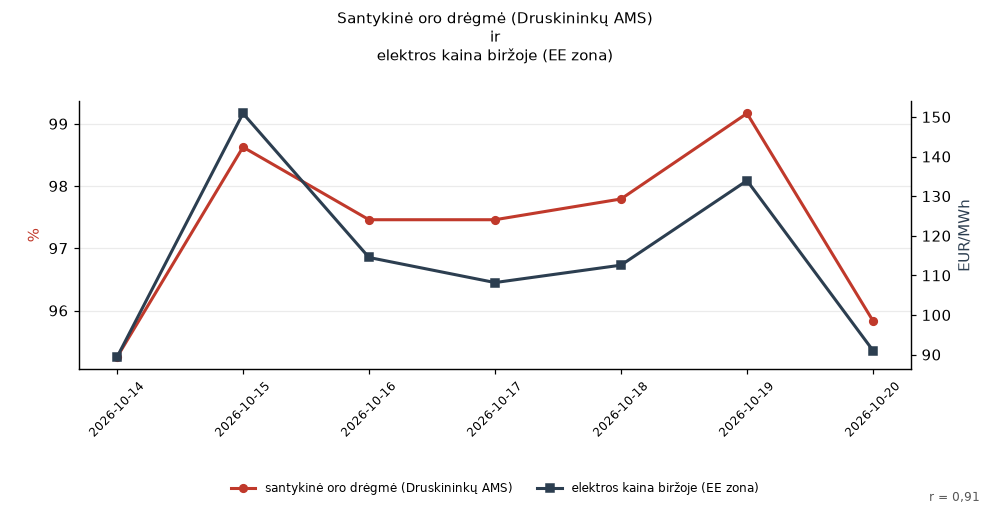
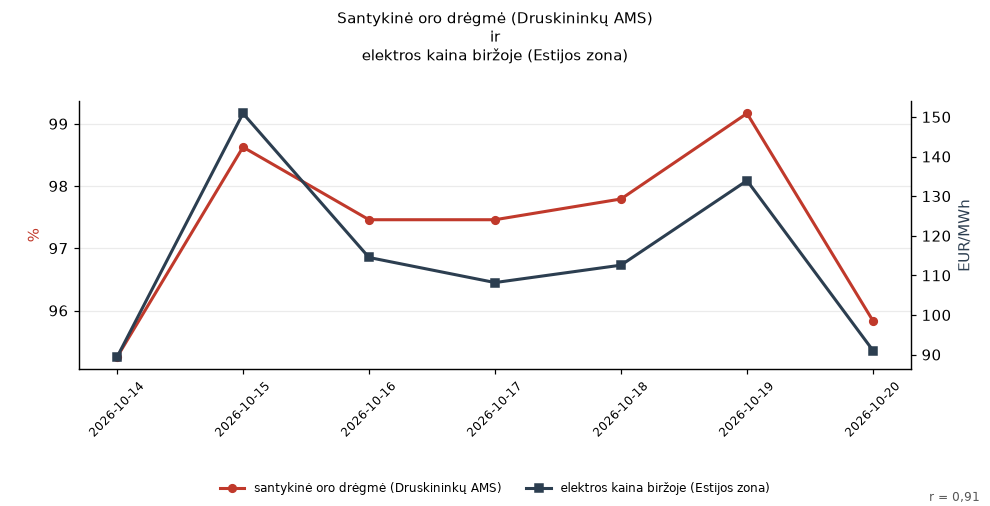
Estijos zona instead of EE zona

Changed region(s): [[0.2121, 0.9486, 0.7879, 0.9783], [0.3636, 0.0889, 0.6364, 0.1186]]

diff --git a/post/2026-10-22-a18e29ce/index.html b/post/2026-10-22-a18e29ce/index.html
@@ -1,10 +1,10 @@
 <!doctype html>
 <html lang="lt"><head><meta charset="utf-8">
 <meta name="viewport" content="width=device-width, initial-scale=1">
-<title>Šią savaitę lyg tyčia sutapo: santykinė oro drėgmė (Druskininkų AMS) ir elektros kaina biržoje (EE zona) · Lyg tyčia</title>
+<title>Šią savaitę lyg tyčia sutapo: santykinė oro drėgmė (Druskininkų AMS) ir elektros kaina biržoje (Estijos zona) · Lyg tyčia</title>
 <meta property="og:type" content="article">
 <meta property="og:site_name" content="Lyg tyčia">
-<meta property="og:title" content="Šią savaitę lyg tyčia sutapo: santykinė oro drėgmė (Druskininkų AMS) ir elektros kaina biržoje (EE zona)">
+<meta property="og:title" content="Šią savaitę lyg tyčia sutapo: santykinė oro drėgmė (Druskininkų AMS) ir elektros kaina biržoje (Estijos zona)">
 <meta property="og:description" content="Santykinė oro drėgmė (Druskininkų AMS) ir elektros kaina biržoje (EE zona) kyla ir krenta kartu: r = 0,90 per 7 d. (2026-10-14 – 2026-10-20).">
 <meta property="og:url" content="https://1gnas3000.github.io/lygtycia/post/2026-10-22-a18e29ce/">
 <meta property="og:image" content="https://1gnas3000.github.io/lygtycia/post/2026-10-22-a18e29ce/chart.png">
@@ -26,18 +26,18 @@
 <article><p class="meta">2026-10-22
  · panašios kreivės · dienos duomenys
  · r = 0,91</p>
-<h2>Šią savaitę lyg tyčia sutapo: santykinė oro drėgmė (Druskininkų AMS) ir elektros kaina biržoje (EE zona)</h2>
+<h2>Šią savaitę lyg tyčia sutapo: santykinė oro drėgmė (Druskininkų AMS) ir elektros kaina biržoje (Estijos zona)</h2>
 
 <p><a href="../../post/2026-10-22-a18e29ce/"><img src="../../post/2026-10-22-a18e29ce/chart.png"
  alt="grafikas" loading="lazy"></a></p>
 <p class="sources">Duomenų šaltiniai:
  <a href="https://get.data.gov.lt/datasets/gov/lhmt/stebejimai/Matavimas" rel="noopener">LHMT orų stebėjimai</a> · <a href="https://dashboard.elering.ee/en/nps/price" rel="noopener">Elektros kainos biržoje (Elering)</a></p>
 
-<p class="text">Santykinė oro drėgmė (Druskininkų AMS) ir elektros kaina biržoje (EE zona) kyla ir krenta kartu: r = 0,90 per 7 d. (2026-10-14 – 2026-10-20).</p><p class="text">Duomenys: „santykinė oro drėgmė (Druskininkų AMS)“ (%) ir „elektros kaina biržoje (EE zona)“ (EUR/MWh).</p><p class="text">Tyler Vigen&#39;o „Spurious Correlations“ dvasia: iš tūkstančių atsitiktinių Lietuvos atvirų duomenų porų šios dvi nupiešė tą pačią kreivę.</p>
+<p class="text">Santykinė oro drėgmė (Druskininkų AMS) ir elektros kaina biržoje (EE zona) kyla ir krenta kartu: r = 0,90 per 7 d. (2026-10-14 – 2026-10-20).</p><p class="text">Duomenys: „santykinė oro drėgmė (Druskininkų AMS)“ (%) ir „elektros kaina biržoje (Estijos zona)“ (EUR/MWh).</p><p class="text">Tyler Vigen&#39;o „Spurious Correlations“ dvasia: iš tūkstančių atsitiktinių Lietuvos atvirų duomenų porų šios dvi nupiešė tą pačią kreivę.</p>
 <p class="share">Dalintis:
  <a href="https://www.facebook.com/sharer/sharer.php?u=https%3A//1gnas3000.github.io/lygtycia/post/2026-10-22-a18e29ce/"
  rel="noopener">Facebook</a> ·
- <a href="https://mastodonshare.com/?text=%C5%A0i%C4%85%20savait%C4%99%20lyg%20ty%C4%8Dia%20sutapo%3A%20santykin%C4%97%20oro%20dr%C4%97gm%C4%97%20%28Druskinink%C5%B3%20AMS%29%20ir%20elektros%20kaina%20bir%C5%BEoje%20%28EE%20zona%29&url=https%3A//1gnas3000.github.io/lygtycia/post/2026-10-22-a18e29ce/"
+ <a href="https://mastodonshare.com/?text=%C5%A0i%C4%85%20savait%C4%99%20lyg%20ty%C4%8Dia%20sutapo%3A%20santykin%C4%97%20oro%20dr%C4%97gm%C4%97%20%28Druskinink%C5%B3%20AMS%29%20ir%20elektros%20kaina%20bir%C5%BEoje%20%28Estijos%20zona%29&url=https%3A//1gnas3000.github.io/lygtycia/post/2026-10-22-a18e29ce/"
  rel="noopener">Mastodon</a> ·
  <a href="https://www.linkedin.com/sharing/share-offsite/?url=https%3A//1gnas3000.github.io/lygtycia/post/2026-10-22-a18e29ce/"
  rel="noopener">LinkedIn</a></p>

diff --git a/index.html b/index.html
@@ -210,7 +210,7 @@
  <a href="https://www.linkedin.com/sharing/share-offsite/?url=https%3A//1gnas3000.github.io/lygtycia/post/2026-10-22-6e99096c/"
  rel="noopener">LinkedIn</a></p></article>
 <article><p class="meta">2026-10-22</p>
-<h2><a href="./post/2026-10-22-a18e29ce/">Šią savaitę lyg tyčia sutapo: santykinė oro drėgmė (Druskininkų AMS) ir elektros kaina biržoje (EE zona)</a></h2>
+<h2><a href="./post/2026-10-22-a18e29ce/">Šią savaitę lyg tyčia sutapo: santykinė oro drėgmė (Druskininkų AMS) ir elektros kaina biržoje (Estijos zona)</a></h2>
 
 <p><a href="./post/2026-10-22-a18e29ce/"><img src="./post/2026-10-22-a18e29ce/chart.png"
  alt="grafikas" loading="lazy"></a></p>
@@ -221,7 +221,7 @@
 <p class="share">Dalintis:
  <a href="https://www.facebook.com/sharer/sharer.php?u=https%3A//1gnas3000.github.io/lygtycia/post/2026-10-22-a18e29ce/"
  rel="noopener">Facebook</a> ·
- <a href="https://mastodonshare.com/?text=%C5%A0i%C4%85%20savait%C4%99%20lyg%20ty%C4%8Dia%20sutapo%3A%20santykin%C4%97%20oro%20dr%C4%97gm%C4%97%20%28Druskinink%C5%B3%20AMS%29%20ir%20elektros%20kaina%20bir%C5%BEoje%20%28EE%20zona%29&url=https%3A//1gnas3000.github.io/lygtycia/post/2026-10-22-a18e29ce/"
+ <a href="https://mastodonshare.com/?text=%C5%A0i%C4%85%20savait%C4%99%20lyg%20ty%C4%8Dia%20sutapo%3A%20santykin%C4%97%20oro%20dr%C4%97gm%C4%97%20%28Druskinink%C5%B3%20AMS%29%20ir%20elektros%20kaina%20bir%C5%BEoje%20%28Estijos%20zona%29&url=https%3A//1gnas3000.github.io/lygtycia/post/2026-10-22-a18e29ce/"
  rel="noopener">Mastodon</a> ·
  <a href="https://www.linkedin.com/sharing/share-offsite/?url=https%3A//1gnas3000.github.io/lygtycia/post/2026-10-22-a18e29ce/"
  rel="noopener">LinkedIn</a></p></article>
